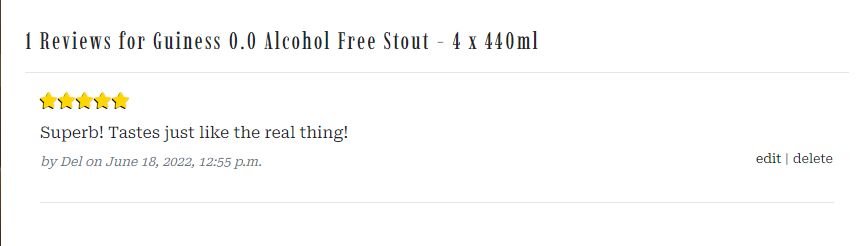
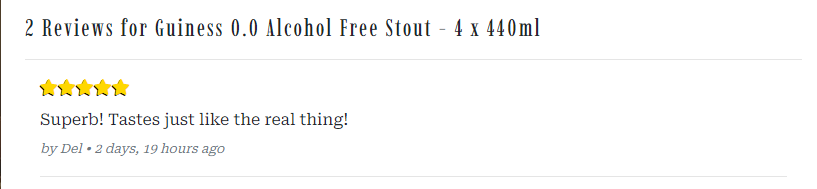
Updating readme feature sections to reflect recent changes

diff --git a/README.md b/README.md
@@ -142,7 +142,7 @@ These phrases can also be used in the metadata at the head of the page.
     - Located on the right side of the navbar is the account Icon where the user can manage their account.
     - Clicking the account Icon opens a dropdown menu with options for the user to register or sign in.
     - If a user is signed in the dropdown options change to 'My Profile' and 'Logout'.
-    - If a user is signed in the Icons text changes from 'My Account' to '*The user's name*'s account.
+    - If a user is signed in the Icons text changes from 'sign in/up' to 'My Account'.
     - If the user signed in is a super user then a third option of 'Product Management' is available. 
 
     ![Navbar-Account](assets/images/navbar-account.png) 
@@ -298,7 +298,7 @@ These phrases can also be used in the metadata at the head of the page.
 
 - #### Customer Reviews
     - If the product has received any reviews they will appear underneath the product details.
-    - The reviews consist of the number of stars awarded by the user, their written comment, followed by the user name with the date and time of when they added the comment.
+    - The reviews consist of the number of stars awarded by the user, their written comment, followed by the user name and how long ago the comment was left.
     - If the user is signed in and they have left a review on a product, that review will also have edit and delete buttons. Users can use these to manage their reviews.
 
      ![Products-Reviews](assets/images/products-reviews.png)
@@ -309,7 +309,7 @@ These phrases can also be used in the metadata at the head of the page.
     - Leaving out either the rating or the review notifies the user that the fields are required.  
     - The user can rate the product between 1 and 5 stars. Clicking a star fills the star and every star before it.
     - Any profanity in the review will cause the form to fail and a toast will inform the user.
-    - To stop users leaving multiple reviews on one product, the form only renders when no reviews for that product from that user exist.
+    - To stop users leaving multiple reviews on one product, the form only renders when no reviews for that product, from that user exist.
 
     ![Products-Add-Review](assets/images/products-add-review.png)
 
